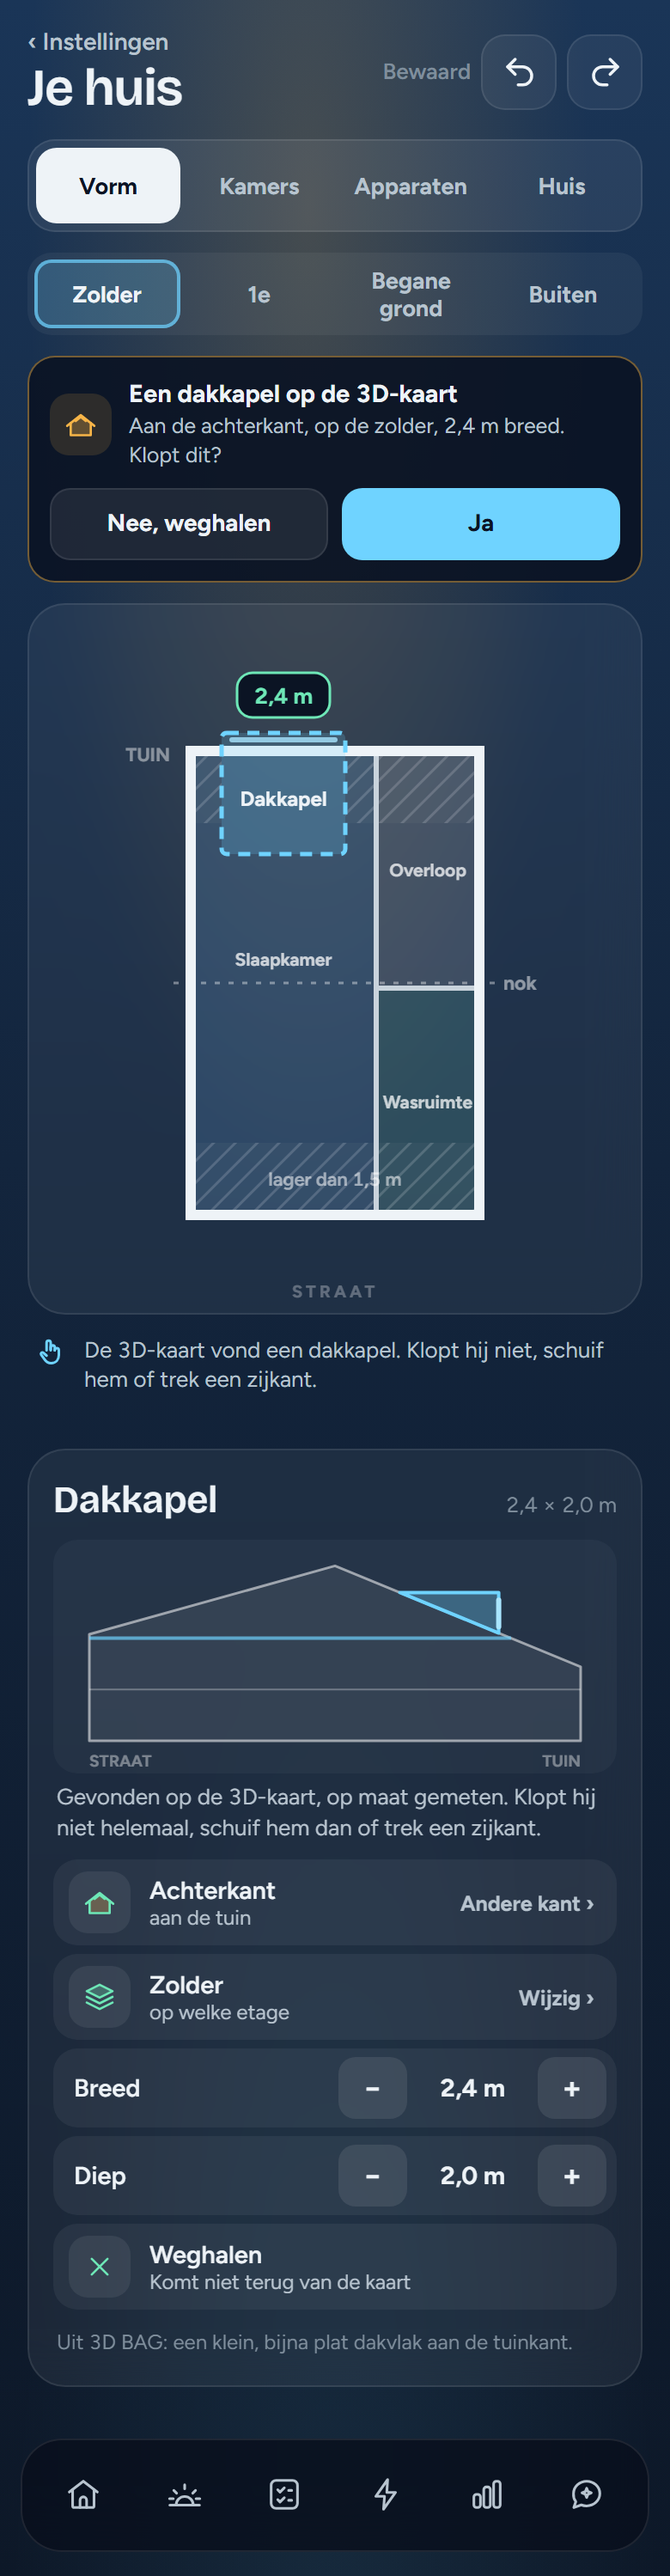
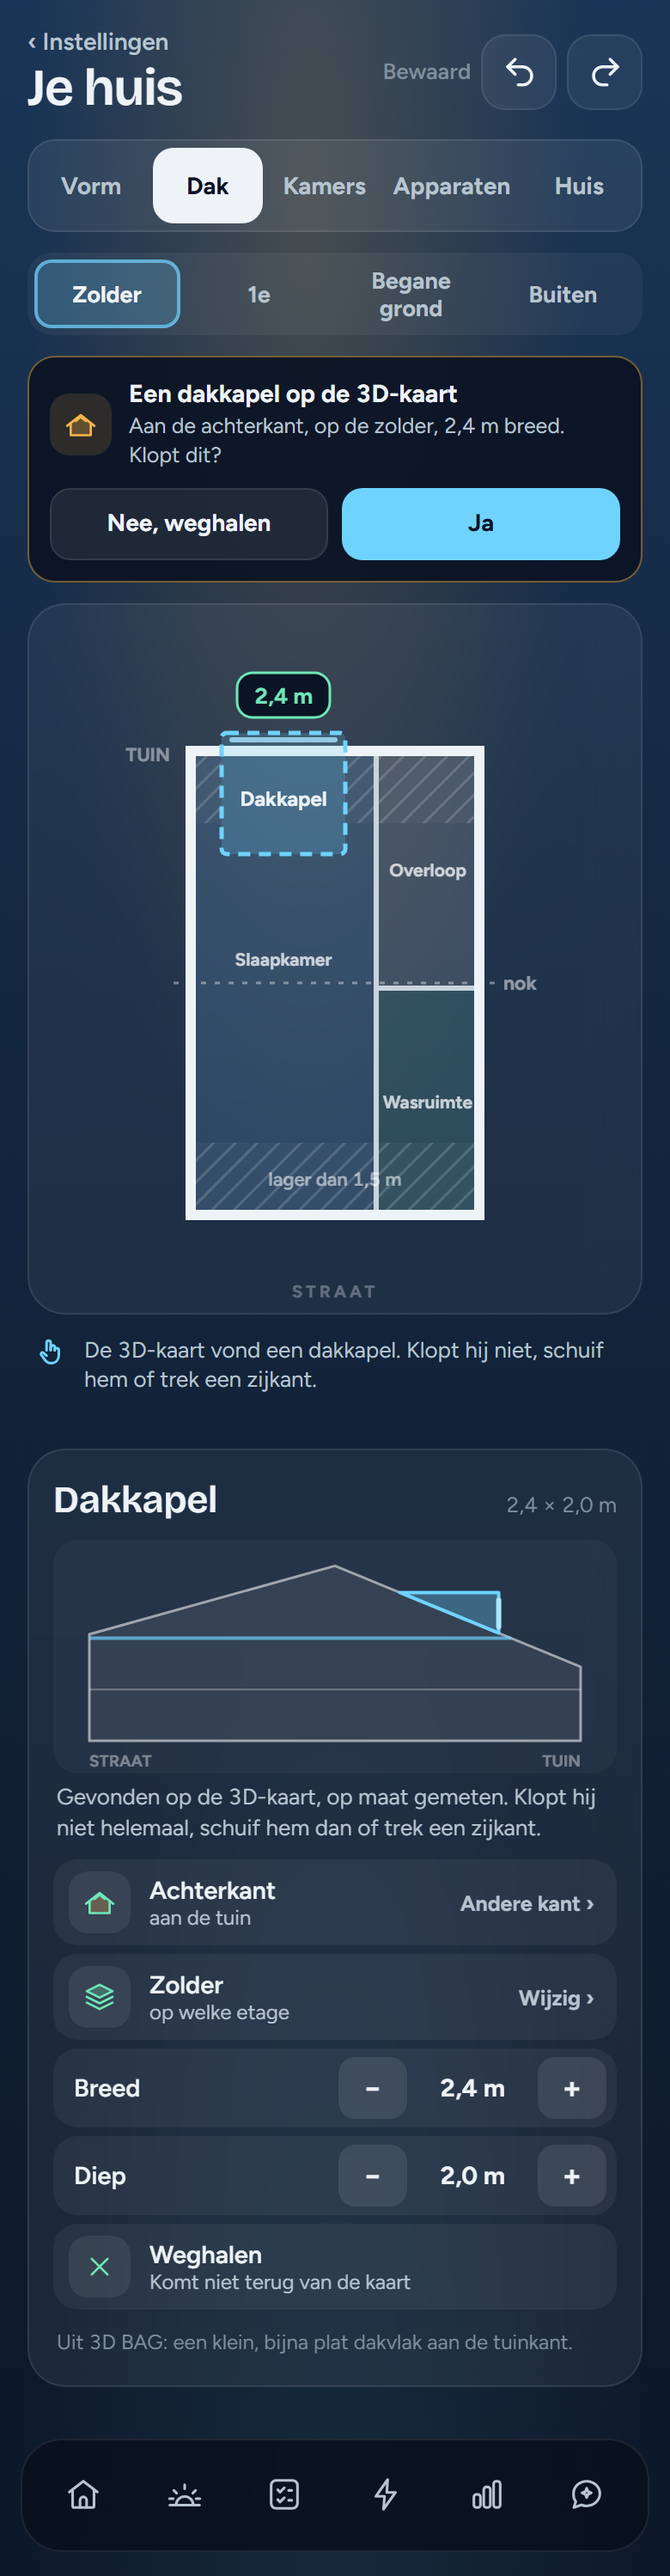
Schets dakkapel: een eigen tab Dak naast Vorm (Ricardo: Vorm blijft rustiger)

Changed region(s): [[0.0308, 0.031, 0.7385, 0.0931], [0.8, 0.062, 0.8923, 0.0931]]

diff --git a/design/app2/dakkapel-schets.js b/design/app2/dakkapel-schets.js
@@ -1,5 +1,7 @@
 /*
- * Je huis › Vorm: de dakkapel (schets, 20 november 2026, stap 4 punt 3).
+ * Je huis › Dak: de dakkapel (schets, 20 november 2026, stap 4 punt 3). Dak
+ * is een eigen tab naast Vorm (Ricardo: dan blijft Vorm rustiger): de dakvorm
+ * en de nok, de dakkapel, en wat lager is dan 1,5 m.
  * Keuzes van Ricardo (19 november): een dakkapel is een keuze met de etage
  * erbij, verplaatsbaar en van formaat te veranderen zoals een kamer; vindt de
  * 3D-kaart er een, dan staat hij er meteen op maat.
@@ -164,15 +166,14 @@
         ${rij({ ik: 'kruis', titel: 'Weghalen', zin: uitKaart ? 'Komt niet terug van de kaart' : '' })}
         ${uitKaart ? '<p class="ht-voet">Uit 3D BAG: een klein, bijna plat dakvlak aan de tuinkant.</p>' : ''}`;
     }
-    return `<header><h3>Zolder</h3><span>${nl(B)} × ${nl(D)} m</span></header>
-      <p class="ht-zin">Onder het schuine dak. Wat lager is dan 1,5 m staat gestreept; daar kun je niet staan.</p>
-      ${dak}
-      ${rij({ ik: 'dak', titel: 'Dakkapel erbij', zin: 'Een kast op het dak, met een raam', rechts: '+', mist: true })}
-      ${rij({ ik: 'etages', titel: 'Naam, dak en volgorde', zin: 'van deze etage', rechts: '›' })}`;
+    return `<header><h3>Het dak</h3><span>zadeldak · nok 9,1 m</span></header>
+      <p class="ht-zin">Op de zolder: wat lager is dan 1,5 m staat gestreept; daar kun je niet staan.</p>
+      ${dak.replace('<h4 class="ht-dakkop">Het dak', '<h4 class="ht-dakkop">Vorm van het dak')}
+      ${rij({ ik: 'dak', titel: 'Dakkapel erbij', zin: 'Een kast op het dak, met een raam', rechts: '+', mist: true })}`;
   }
 
   const UITLEG = {
-    zonder: 'Pak een buitenmuur om het huis op maat te trekken. Een dakkapel zet je erbij in het blad.',
+    zonder: 'Het dak van boven op de zolder. Een dakkapel zet je erbij in het blad.',
     kies: 'Kies in het blad aan welke kant de dakkapel komt.',
     gekozen: 'Sleep de dakkapel langs het dak. Pak een zijkant om hem breder of smaller te maken.',
     kaart: 'De 3D-kaart vond een dakkapel. Klopt hij niet, schuif hem of trek een zijkant.',
@@ -190,7 +191,7 @@
       v.hidden = false;
       v.innerHTML = `<span class="hb-ik">${ik('dak')}</span><span class="hb-tekst"><b>Een dakkapel op de 3D-kaart</b><span>Aan de achterkant, op de zolder, 2,4 m breed. Klopt dit?</span></span><span class="hb-knoppen"><button type="button">Nee, weghalen</button><button type="button" class="hb-hoofd">Ja</button></span>`;
     }
-    document.querySelectorAll('[data-stand]').forEach((b) => b.setAttribute('aria-pressed', String(b.dataset.stand === 'vorm')));
+    document.querySelectorAll('[data-stand]').forEach((b) => b.setAttribute('aria-pressed', String(b.dataset.stand === 'dak')));
   }
 
   global.dakkapelSchets = { start };

diff --git a/design/app2/Tel-Huis-Dakkapel.html b/design/app2/Tel-Huis-Dakkapel.html
@@ -10,7 +10,7 @@
 <link rel="stylesheet" href="../../frontend/kit/huistekenen.css">
 <style>
   /*
-   * Je huis › Vorm op de telefoon: de dakkapel (schets, 20 november 2026):
+   * Je huis › Dak op de telefoon: de dakkapel (schets, 20 november 2026):
    * dezelfde als op de wand (Wand-Huis-Dakkapel), onder elkaar. Standen:
    * (zonder), #kies, #gekozen, #kaart.
    */
@@ -58,6 +58,8 @@
   .dk-knoppen { display: flex; gap: 8px; justify-content: flex-end; margin-top: 6px; }
   .dk-knoppen .knop { height: 40px; }
   .tk-tekening { height: 400px; }
+  .hm-seg { display: grid; grid-template-columns: repeat(5, 1fr); }
+  .hm-seg button { padding: 0 4px; justify-content: center; font-size: 14px; }
   .hb-vraag { display: flex; flex-wrap: wrap; align-items: center; gap: 10px; padding: 12px; border-radius: 16px; background: rgb(11 20 36 / 0.92); border: 1px solid rgb(247 181 72 / 0.45); }
   #tekening { width: 100%; height: 100%; }
 </style>
@@ -74,6 +76,7 @@
   </div>
   <div class="hm-seg" id="standen" role="group" aria-label="Wat je tekent">
     <button type="button" data-stand="vorm">Vorm</button>
+    <button type="button" data-stand="dak">Dak</button>
     <button type="button" data-stand="kamers">Kamers</button>
     <button type="button" data-stand="apparaten">Apparaten</button>
 <button type="button" data-stand="huis">Huis</button>

diff --git a/design/app2/Wand-Huis-Dakkapel.html b/design/app2/Wand-Huis-Dakkapel.html
@@ -10,7 +10,7 @@
 <link rel="stylesheet" href="../../frontend/kit/huistekenen.css">
 <style>
   /*
-   * Je huis › Vorm: de dakkapel (schets, 20 november 2026, stap 4 punt 3).
+   * Je huis › Dak: de dakkapel (schets, 20 november 2026, stap 4 punt 3).
    * De zolder van Ricardo's huis; de inhoud in dakkapel-schets.js. Standen:
    * (zonder), #kies, #gekozen, #kaart.
    */
@@ -62,6 +62,7 @@
       <h1 class="kop-1">Je huis</h1>
       <div class="hm-seg" id="standen" role="group" aria-label="Wat je tekent">
         <button type="button" data-stand="vorm" data-ik="thuis">Vorm</button>
+        <button type="button" data-stand="dak" data-ik="dak">Dak</button>
         <button type="button" data-stand="kamers" data-ik="kamers">Kamers</button>
         <button type="button" data-stand="apparaten" data-ik="apparaat">Apparaten</button>
 <button type="button" data-stand="huis" data-ik="thuis">Huis</button>
